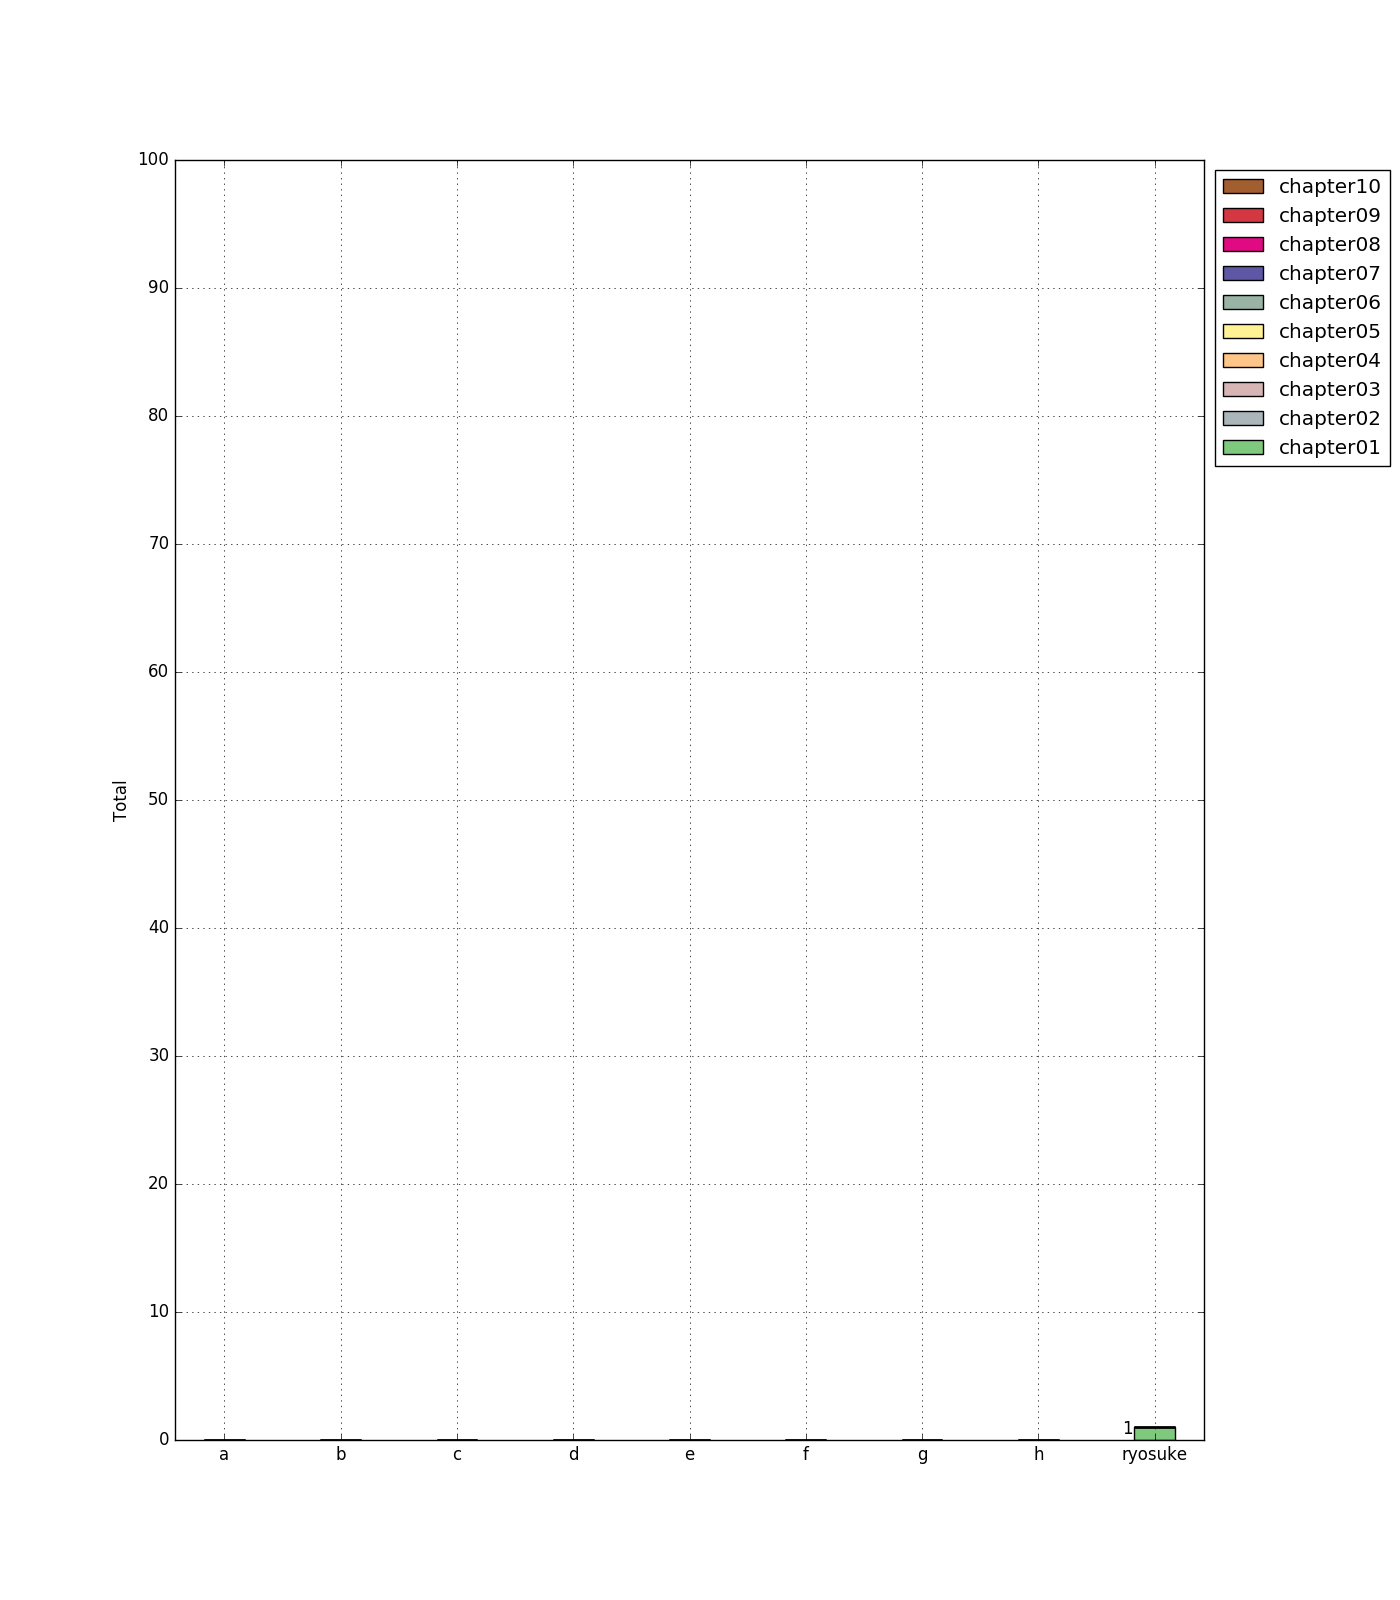
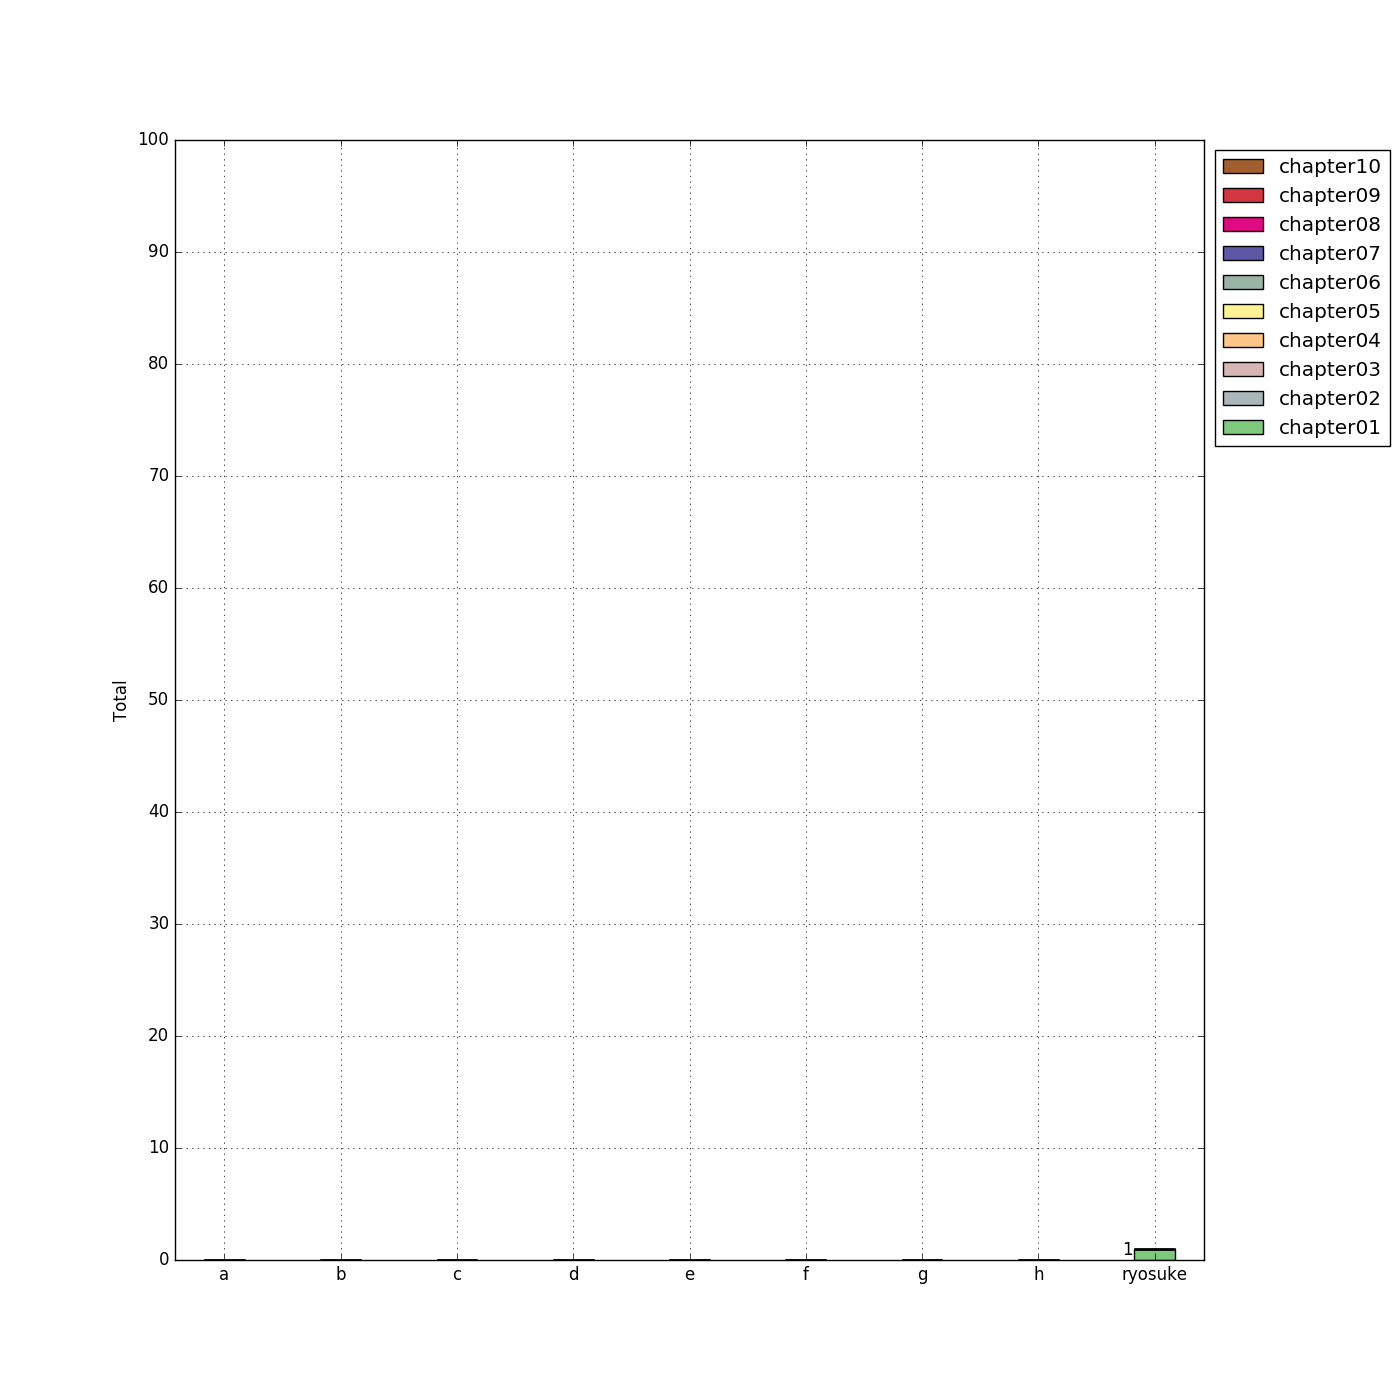
[modify] resize

Changed region(s): [[0.86, 0.0921, 1.0, 0.3379], [0.7986, 0.8907, 0.86, 0.9214], [0.0614, 0.4914, 0.0921, 0.5221]]

diff --git a/calc_progress.py b/calc_progress.py
@@ -3,7 +3,7 @@ import matplotlib.pyplot as plt
 import matplotlib.cm as cm
 import numpy as np
 
-plt.figure(figsize=(14, 16))
+plt.figure(figsize=(14, 14))
 l100 = list(range(0, 100))
 users = list()
 data = list()
